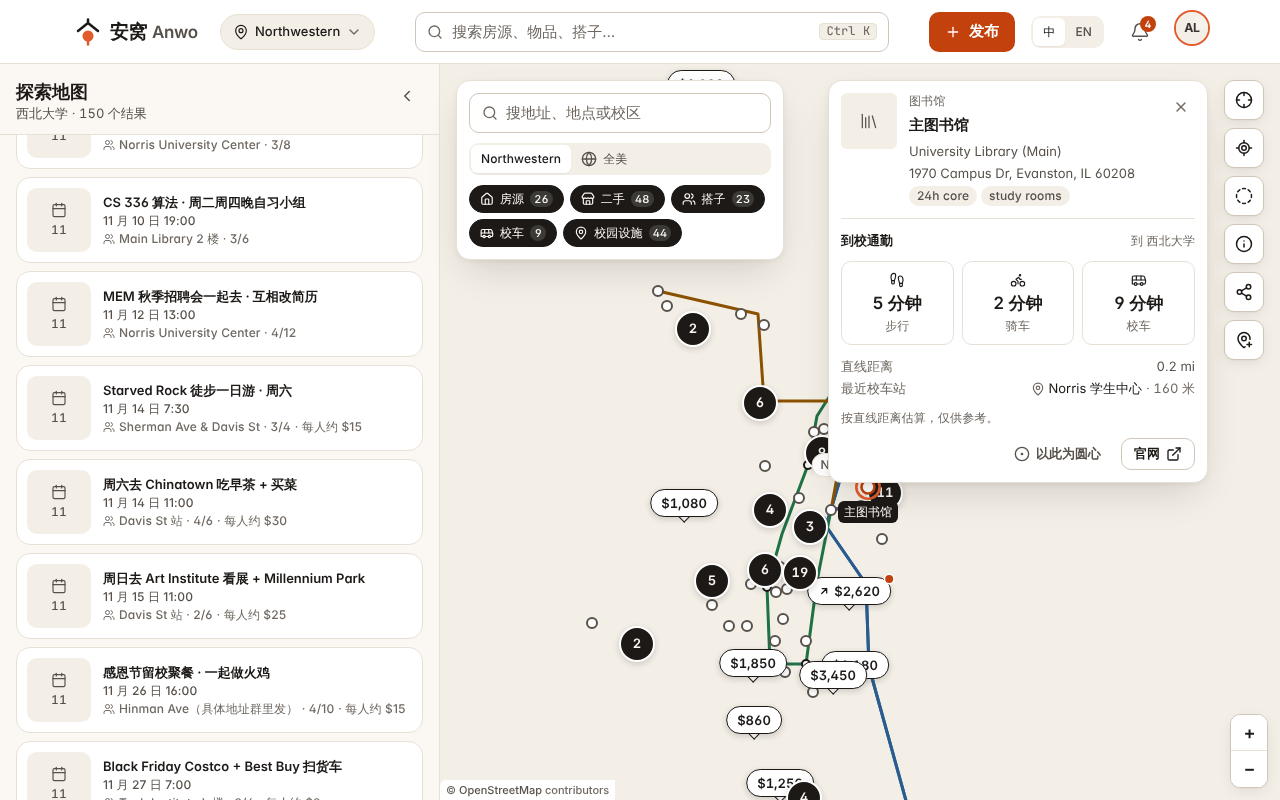
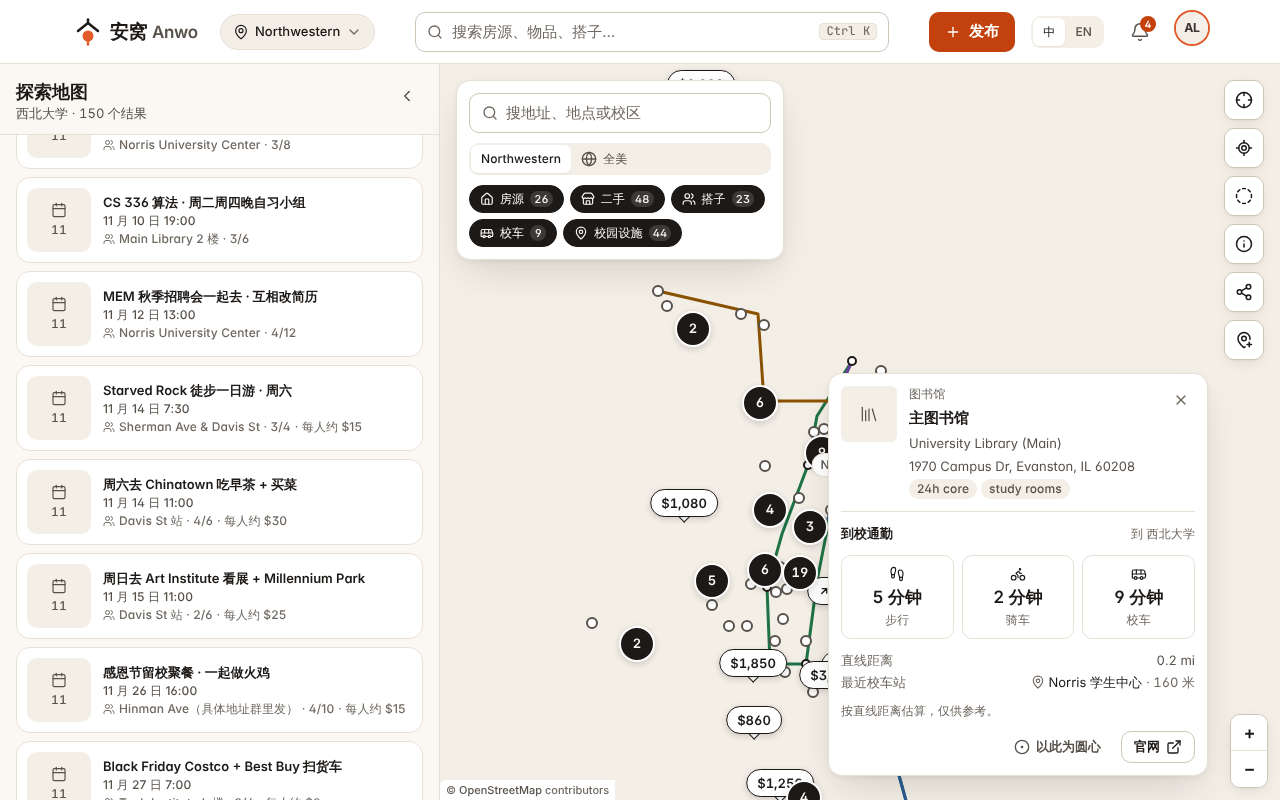
wip: auto-snapshot 2026-11-03T23:15:10Z

Changed region(s): [[0.625, 0.0938, 0.9688, 1.0]]

diff --git a/web/src/features/map/hooks/useMapUrlState.ts b/web/src/features/map/hooks/useMapUrlState.ts
@@ -53,9 +53,11 @@ export function useMapUrlState() {
       const flush = () => {
         const p = pending.current;
         pending.current = {};
+        // Build from the live URL, not the router's render-time params: flushes run from timers and a stale
+        // `prev` would resurrect values written in between (layers, radius, selection).
         setParams(
-          (prev) => {
-            const next = new URLSearchParams(prev);
+          (() => {
+            const next = new URLSearchParams(window.location.search);
             if (p.center !== undefined) {
               if (p.center) next.set('c', `${p.center.lat.toFixed(5)},${p.center.lng.toFixed(5)}`);
               else next.delete('c');
@@ -81,7 +83,7 @@ export function useMapUrlState() {
               else next.delete('sel');
             }
             return next;
-          },
+          })(),
           { replace: true },
         );
       };

diff --git a/web/src/features/map/pages/MapExplorePage.tsx b/web/src/features/map/pages/MapExplorePage.tsx
@@ -610,7 +610,7 @@ export default function MapExplorePage() {
 
         {/* selection panel */}
         {selection && !nationwide && (
-          <div className={cn('pointer-events-none absolute z-[12]', isDesktop ? 'right-[72px] top-4 w-[380px]' : 'inset-x-3 bottom-[72px]')}>
+          <div className={cn('pointer-events-none absolute z-[12]', isDesktop ? 'bottom-6 right-[72px] w-[380px]' : 'inset-x-3 bottom-[72px]')}>
             <SelectionPanel
               selection={selection}
               campusId={campus?.id ?? null}
